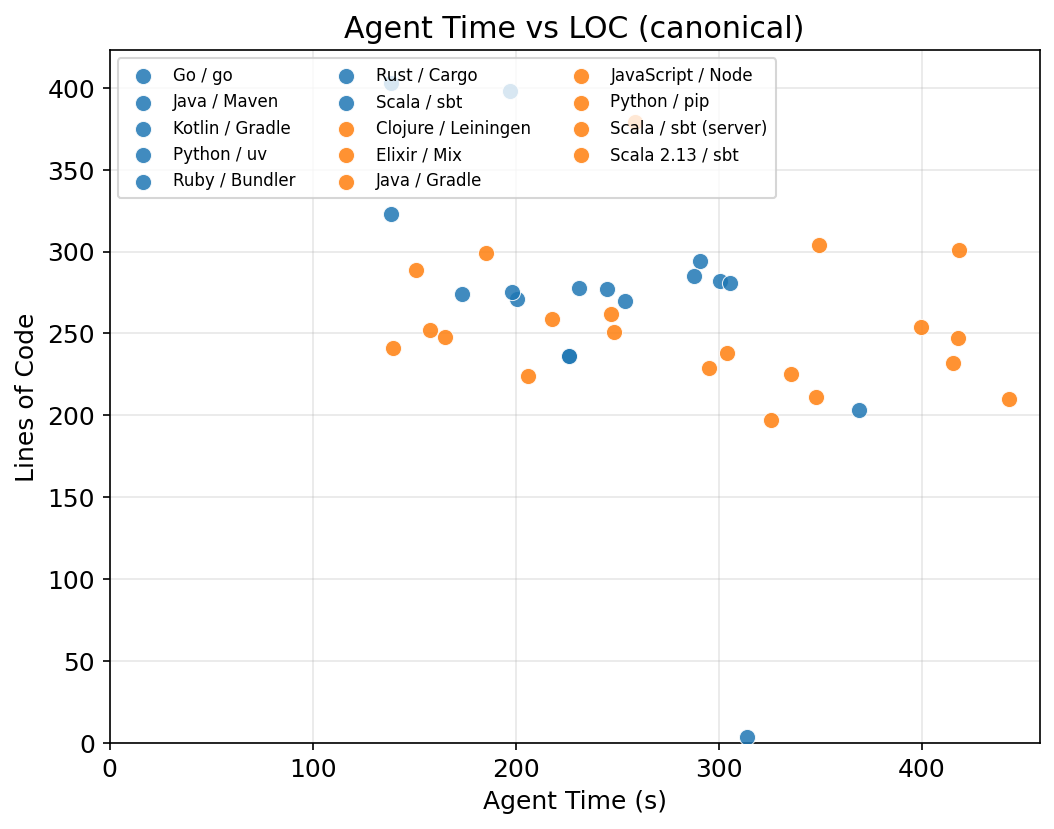
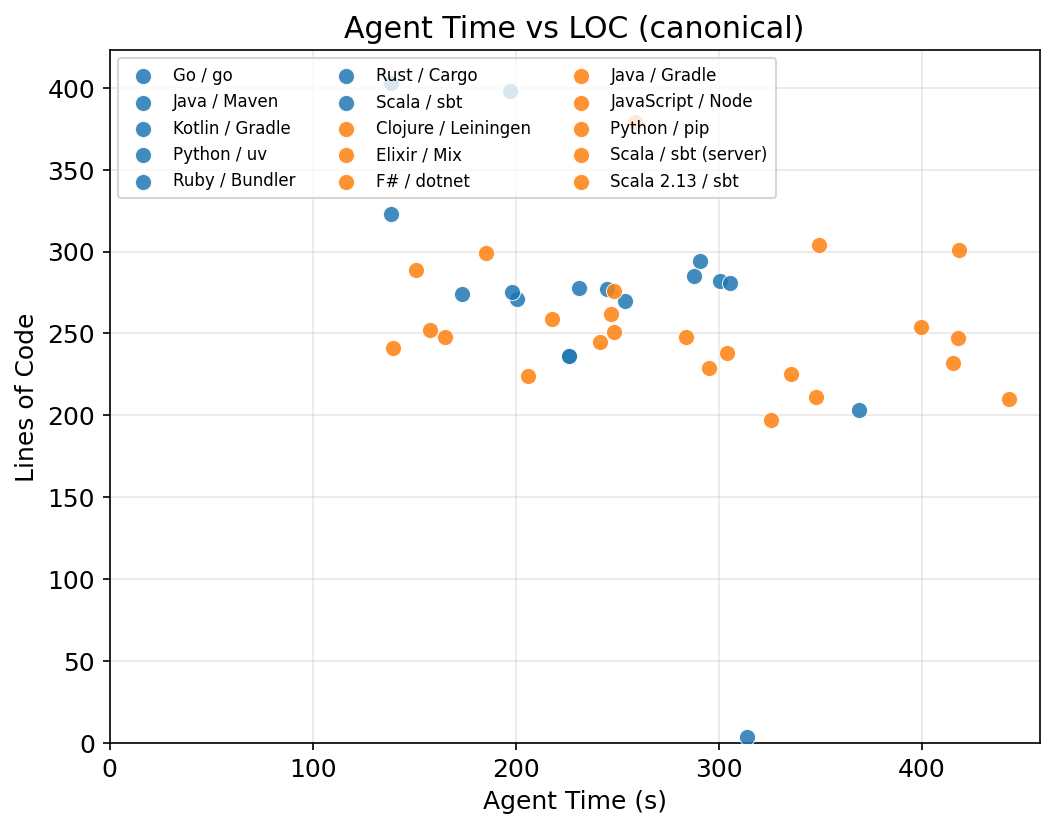
Add F# / dotnet results (258s ±23s); update Key Findings
F# (static functional, .NET 9) at 258s ±22.9s beats Clojure (dynamic
functional, JVM) at 393s by 135s. Concise output (~256 LOC) comparable
to dynamic languages. dotnet publish --self-contained has low per-cycle
latency. Added Finding #5 on static vs dynamic functional comparison.

diff --git a/README.md b/README.md
@@ -34,6 +34,7 @@ Each workflow was run **3 trials** (except Python/uv: 1 trial). All runs achieve
 | Ruby / Bundler | 217.6s | ±31.5s | 272 | 80.0s | dynamic |
 | Elixir / Mix | 227.0s | ±35.9s | 271 | 83.9s | dynamic |
 | Kotlin / Gradle | 234.1s | ±9.9s | 264 | 88.7s | static |
+| F# / dotnet | 258.0s | ±22.9s | 256 | 100.8s | static (functional) |
 | Java / Maven | 272.6s | ±40.5s | 271 | 100.7s | static |
 | Scala 3 / sbt | 321.0s | ±42.6s | 256 | 125.4s | static |
 | Java / Gradle | 342.3s | ±80.0s | 328 | 104.4s | static |
@@ -58,6 +59,9 @@ Python/uv and Python/pip produce nearly identical results (173.8s vs. 175.6s). D
 **4. The "dynamic vs. static" framing is too coarse.**
 Within the JVM ecosystem alone, agent time ranges from 234s (Kotlin) to 379s (Scala 2.13). Within dynamic languages, Go beats all of them. The dominant factors appear to be build-cycle speed, compiler incremental compilation quality, and AI training data availability — not whether the language is dynamically or statically typed.
 
+**5. F# (static functional) outperforms Clojure (dynamic functional) by 135s.**
+F#/.NET 9 (258.0s ±22.9s) is substantially faster than Clojure/Leiningen (392.8s ±54.0s), despite both being functional languages. F# produces concise code (~256 LOC, comparable to dynamic languages) while retaining static typing. The `dotnet publish --self-contained` pipeline has low per-cycle latency, contributing to the speed advantage. This directly refutes any claim that functional style inherently favours dynamic typing for AI generation tasks.
+
 ### LOC-Normalised Agent Time
 
 ![Time per 100 LOC](./figures/time_per_100loc.png)
@@ -72,7 +76,7 @@ Setup time is negligible for most workflows. The exception is Scala/sbt (≈7s s
 
 ## Status
 
-`results/` and `figures/` now contain canonical-track results for 12 workflows (see table above). The legacy greenfield results are preserved in the same `results.json` under `"track": "greenfield"` for continuity.
+`results/` and `figures/` now contain canonical-track results for 13 workflows (see table above). The legacy greenfield results are preserved in the same `results.json` under `"track": "greenfield"` for continuity.
 
 The benchmark harness separates:
 
